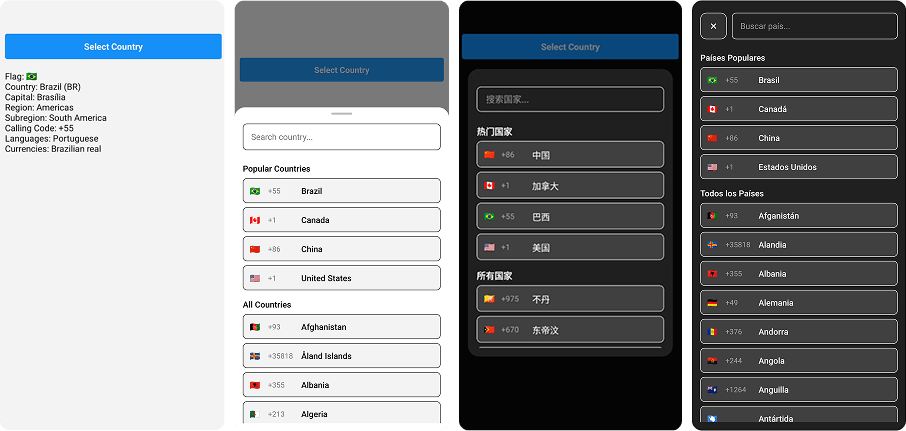
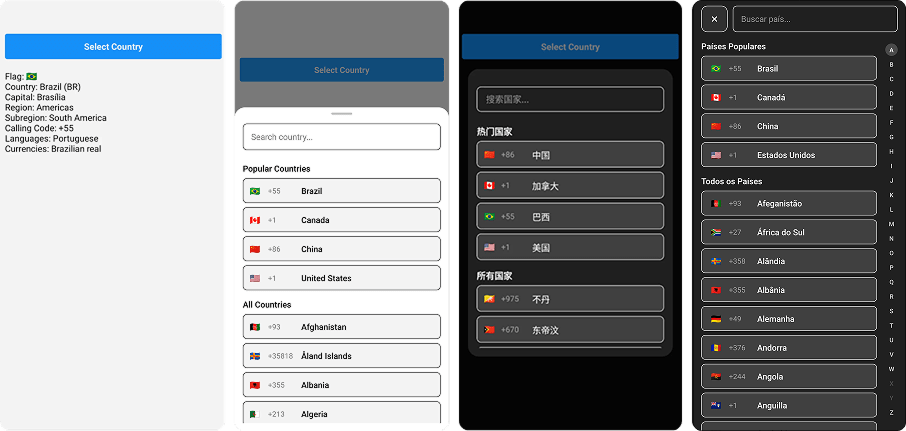
docs: updated lib documentation

Changed region(s): [[0.7726, 0.0, 1.0, 1.0]]

diff --git a/README.md b/README.md
@@ -287,6 +287,7 @@ export default function App() {
 | theme                        | 'light' \| 'dark'                                                       | No       | 'light'              | Theme for the country picker                                     |
 | language                     | [ICountrySelectLanguages](lib/interfaces/countrySelectLanguages.ts)     | No       | 'eng'                | Language for country names (see supported languages below)       |
 | showSearchInput              | boolean                                                                 | No       | true                 | Whether to show the search input field                           |
+| showAlphabetFilter           | boolean                                                                 | No       | false                | Whether to show the alphabetic filter on modal                   |
 | searchPlaceholder            | string                                                                  | No       | 'Search country...'  | Placeholder text for search input                                |
 | searchPlaceholderTextColor   | string                                                                  | No       | '#00000080'          | Placeholder text color for search input                          |
 | searchSelectionColor         | string                                                                  | No       | default              | Highlight, selection handle and cursor color of the search input |
@@ -381,7 +382,11 @@ Ensure your app is inclusive and usable by everyone by leveraging built-in React
 - `accessibilityLabelCountriesList`: Accessibility label for the countries list;
 - `accessibilityHintCountriesList`: Accessibility hint for the countries list;
 - `accessibilityLabelCountryItem`: Accessibility label for individual country items;
-- `accessibilityHintCountryItem`: Accessibility hint for individual country.
+- `accessibilityHintCountryItem`: Accessibility hint for individual country;
+- `accessibilityLabelAlphabetFilter`: Accessibility label for alphabet filter list;
+- `accessibilityHintAlphabetFilter`: Accessibility hint for alphabet filter list;
+- `accessibilityLabelAlphabetLetter`: Accessibility label for individual alphabet filter letter;
+- `accessibilityHintAlphabetLetter`: Accessibility hint for individual alphabet filter letter.
 
 <br>
 
